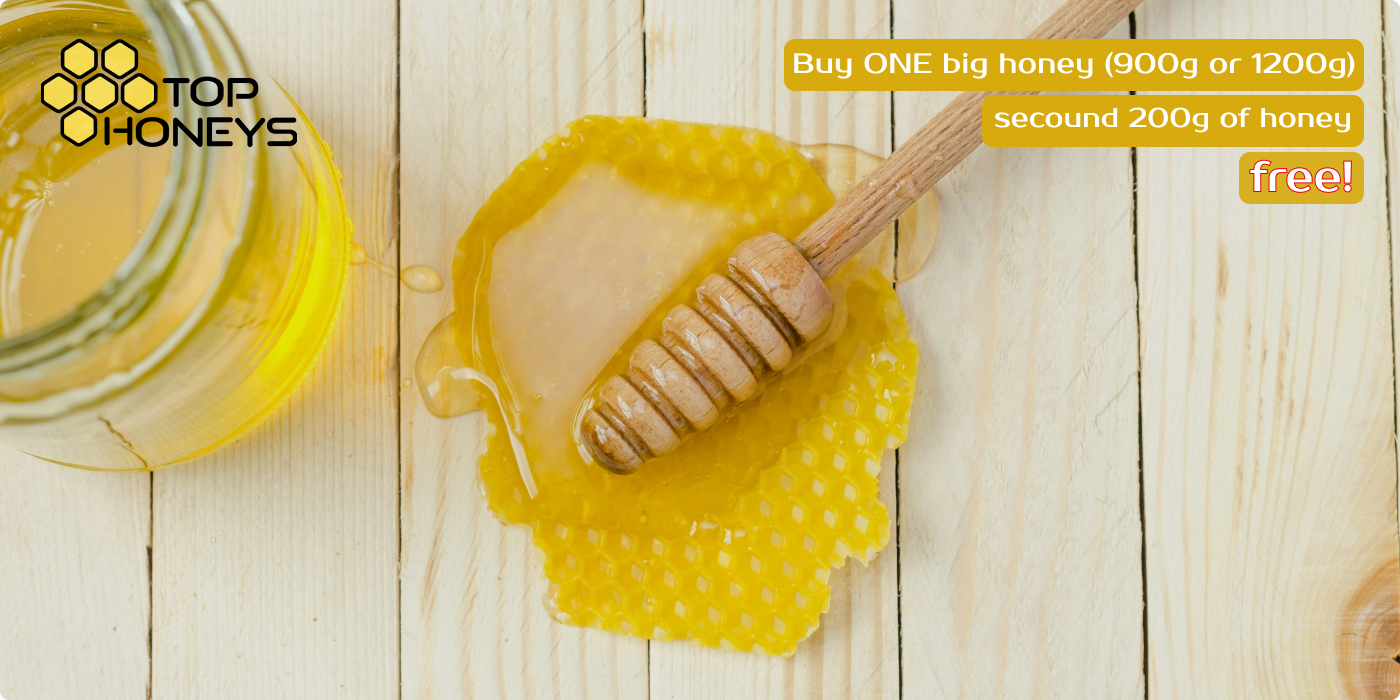
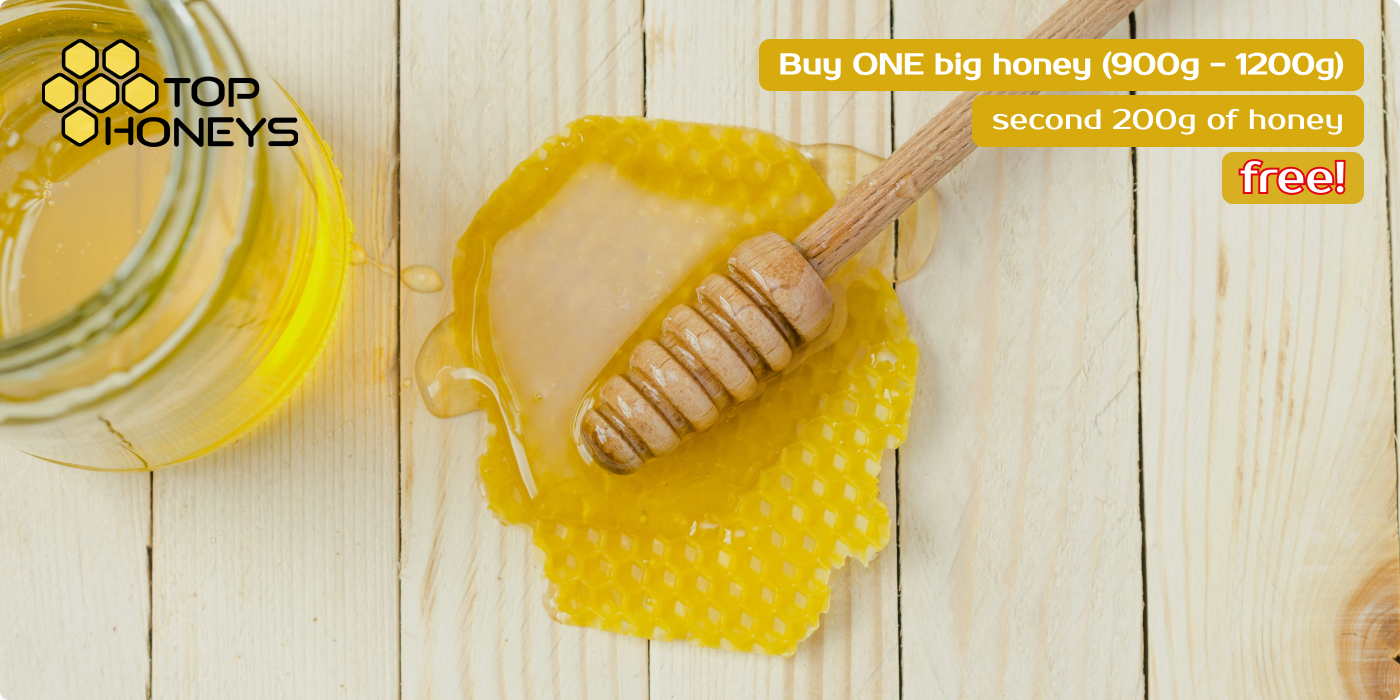
TH2022 final touch
teasers graphics replaced, banners corrected, accessibilty enchanced

Changed region(s): [[0.5221, 0.06, 0.9829, 0.3], [0.0307, 0.06, 0.1843, 0.21]]

diff --git a/src/components/Teasers2022.js b/src/components/Teasers2022.js
@@ -3,12 +3,12 @@ import React from "react";
 import { makeStyles } from "@material-ui/styles";
 import { Link } from "react-router-dom";
 // custom
-import t1 from "../assets/t5.jpg";
-import t2 from "../assets/t6.jpg";
-import t3 from "../assets/t2.png";
-import t4 from "../assets/t4.jpg";
-import t5 from "../assets/t1.jpg";
-import t6 from "../assets/t3.jpg";
+import t1 from "../assets/teaser2022-01.jpg";
+import t2 from "../assets/teaser2022-02.jpg";
+import t3 from "../assets/teaser2022-03.jpg";
+import t4 from "../assets/teaser2022-04.jpg";
+import t5 from "../assets/teaser2022-05.png";
+import t6 from "../assets/teaser2022-06.jpg";
 
 const useStyles = makeStyles((theme) => ({
   container: {
@@ -62,24 +62,25 @@ const Teasers2022 = () => {
           <img src={t1} alt="pure honeys" className={classes.img} />
         </div>
       </Link>
+      <Link to="/category/beeproducts">
+        <div className={classes.teaser}>
+          <img src={t2} alt="bee products" className={classes.img} />
+        </div>
+      </Link>
       <Link to="/category/additives">
         <div className={classes.teaser}>
-          <img src={t2} alt="honeys with additives" className={classes.img} />
+          <img src={t3} alt="honeys with additives" className={classes.img} />
+        </div>
+      </Link>
+
+      <Link to="/category/confiture">
+        <div className={classes.teaser}>
+          <img src={t4} alt="extra jam and confiture" className={classes.img} />
         </div>
       </Link>
       <Link to="/category/bio">
         <div className={classes.teaser}>
-          <img src={t3} alt="bio" className={classes.img} />
-        </div>
-      </Link>
-      <Link to="/category/beeproducts">
-        <div className={classes.teaser}>
-          <img src={t4} alt="bee products" className={classes.img} />
-        </div>
-      </Link>
-      <Link to="/category/confiture">
-        <div className={classes.teaser}>
-          <img src={t5} alt="extra jam and confiture" className={classes.img} />
+          <img src={t5} alt="bio" className={classes.img} />
         </div>
       </Link>
       <Link to="/category/softdrinks">

diff --git a/src/components/ProductTab.js b/src/components/ProductTab.js
@@ -1,6 +1,6 @@
 import React, { useState } from "react";
-import { makeStyles, useTheme } from "@material-ui/core/styles";
-import useMediaQuery from "@material-ui/core/useMediaQuery";
+import { makeStyles /*, useTheme */ } from "@material-ui/core/styles";
+// import useMediaQuery from "@material-ui/core/useMediaQuery";
 import { Link } from "react-router-dom";
 import { useDispatch } from "react-redux";
 import CartIcon from "@material-ui/icons/ShoppingCartOutlined";
@@ -120,7 +120,7 @@ const useStyles = makeStyles((theme) => ({
   capacity: {
     fontSize: ".8rem",
     margin: ".5rem 0",
-    color: theme.palette.text.disabled,
+    color: theme.palette.text.primary,
     [theme.breakpoints.down("sm")]: {
       fontSize: ".75rem",
     },
@@ -132,7 +132,7 @@ const useStyles = makeStyles((theme) => ({
     marginBottom: ".8rem",
     fontSize: "1.8rem",
     fontWeight: 300,
-    color: theme.palette.common.price,
+    color: theme.palette.text.primary,
     letterSpacing: 1,
     flexWrap: "no-wrap",
     overflow: "hidden",
@@ -234,8 +234,8 @@ const ProductTab = ({
   const classes = useStyles();
   const dispatch = useDispatch();
   const history = useHistory();
-  const theme = useTheme();
-  const isMobile = useMediaQuery(theme.breakpoints.down("md"));
+  // const theme = useTheme();
+  // const isMobile = useMediaQuery(theme.breakpoints.down("md"));
   // successful alert state
   const [open, setOpen] = useState(false);
 
@@ -315,7 +315,7 @@ const ProductTab = ({
               <Link to={`/product/${id}`}>
                 <div className={classes.price}>
                   <div style={{ whiteSpace: "nowrap" }}>
-                    <span style={{ opacity: 0.45 }}>&euro;&nbsp;</span>
+                    <span style={{ opacity: 0.5 }}>&euro;&nbsp;</span>
                     {Number(price).toFixed(2)}
                   </div>
                   {isSale && previousPrice > 0 && (

diff --git a/src/components/ProductCard.js b/src/components/ProductCard.js
@@ -129,7 +129,7 @@ const useStyles = makeStyles((theme) => ({
   capacity: {
     fontSize: ".8rem",
     margin: ".5rem 0",
-    color: theme.palette.text.disabled,
+    color: theme.palette.text.primary,
     [theme.breakpoints.down("xs")]: {
       fontSize: ".75rem",
     },
@@ -139,7 +139,7 @@ const useStyles = makeStyles((theme) => ({
     alignItems: "flex-start",
     margin: "auto 0 0.8rem 0",
     fontSize: "1.9rem",
-    color: theme.palette.common.price,
+    color: theme.palette.text.primary,
     letterSpacing: 1,
     fontWeight: 300,
     flexWrap: "no-wrap",
@@ -288,7 +288,7 @@ const ProductCard = ({ product }) => {
               <div className={classes.capacity}>{product.capacity}</div>
               <div className={classes.price}>
                 <div style={{ whiteSpace: "nowrap" }}>
-                  <span style={{ opacity: 0.45 }}>&euro; </span>
+                  <span style={{ opacity: 0.5 }}>&euro; </span>
                   {product.price.toFixed(2)}
                 </div>
                 {product.isPromo && product.previousPrice > 0 && (
